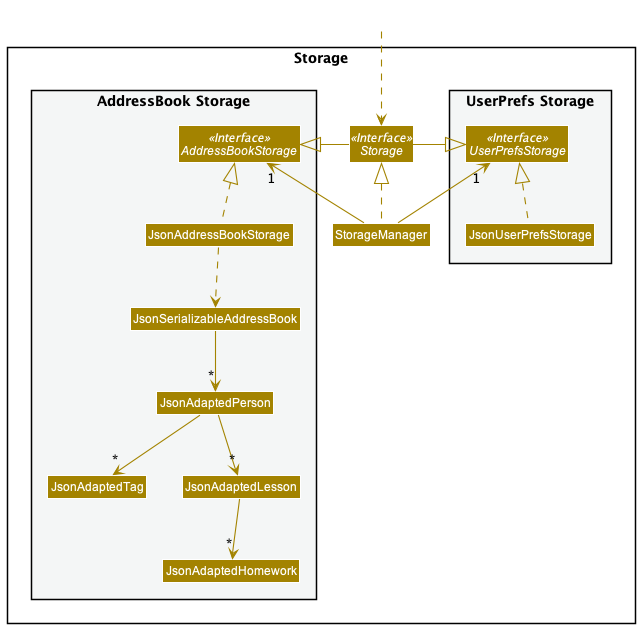
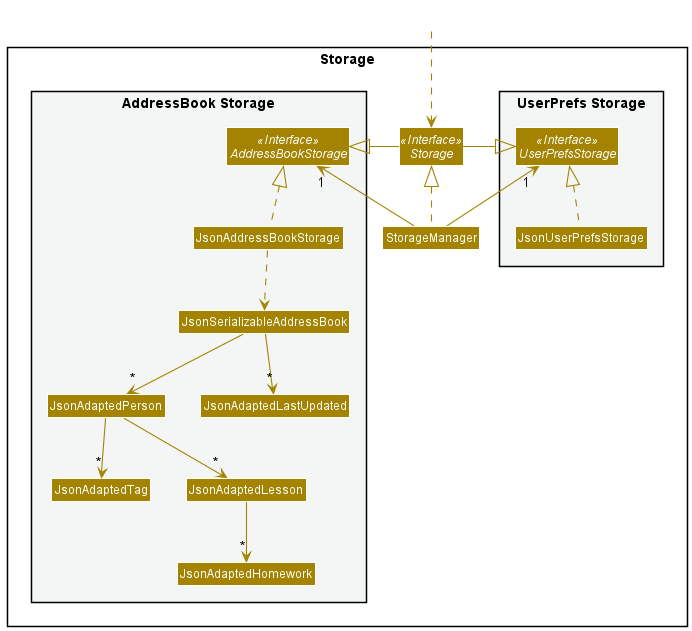
Edit diagrams

Changed region(s): [[0.0, 0.0605, 1.0, 0.9984], [0.2188, 0.6959, 0.2812, 0.7261], [0.5938, 0.121, 0.625, 0.1513]]

diff --git a/docs/DeveloperGuide.md b/docs/DeveloperGuide.md
@@ -150,6 +150,7 @@ The `Model` component
   * While `UniqueTagList` stores all existing distinct tags created, `Tag` objects with the same tag name may not have the same reference. This means that each `Person` object still has its own `Tag` objects and the `Tag` is only added into `UniqueTagList` if it does not exist in the tag list yet.
 * stores the currently 'selected' `Person` objects (e.g., results of a search query) as a separate filtered list which is exposed to outsiders as an unmodifiable `ObservableList<Person>` that can be 'observed', e.g., the `Ui` component can be bound to this list so that it automatically updates when the data in the list change.
 * stores a `UserPref` object that represents the user’s preferences. This is exposed to the outside as a `ReadOnlyUserPref` objects.
+* stores the `LocalDateTime` object of the date and time the `AddressBook` was updated.
 * does not depend on any of the other three components (as the `Model` represents data entities of the domain, they should make sense on their own without depending on other components).
 
 <div markdown="span" class="alert alert-info">:information_source: **Note:** 
@@ -709,11 +710,13 @@ Payment of outstanding fees is facilitated by `Money` and its subclasses as well
 `OutstandingFees` and `LessonRates` extends `Money` whereas `Fees` field in `Person` is composed of `OutstandingFees` as it is the sum of `OutstandingFees`. Money uses `BigDecimal` for all calculations.
 
 The user can record payment of the lesson using the `PaidCommand`. Payment made must be greater than 0 and lesser than or equals to the current outstanding fees.
-The `OutstandingFees` field would then be deducted by the paid amount. The following is the sequence diagram of the `PaidCommand`.
+The `OutstandingFees` field would then be deducted by the paid amount. `PaidCommand` extends `UndoableCommand`. The following is the sequence diagram of the `PaidCommand`.
 
 ![PaidCommandSequenceDiagram](images/PaidCommandSequenceDiagram.png)
 
 *Figure I.6.4: Sequence diagram of executing paid command.*
+
+
 
 #### Design Consideration
 
@@ -1368,7 +1371,7 @@ Expected: Error details will be shown in the status message.
 
 ### Fees Calculator
 
-<div markdown="span" class="alert alert-info">:information_source: <b>Note:</b> Please test the test cases separately and independently for better clarity.</div>
+<div markdown="span" class="alert alert-info">:information_source: <b>Note:</b> The test cases below are designed separately and independent of each other. i.e. Test the different test cases separately.</div>
 
 1. Add the recurring lessons and makeup lessons to a student, following the test cases. <br>
    Prerequisites: The lessons do not clash with each other and other existing lessons. If there were clashes, delete the clashing lesson(s).
